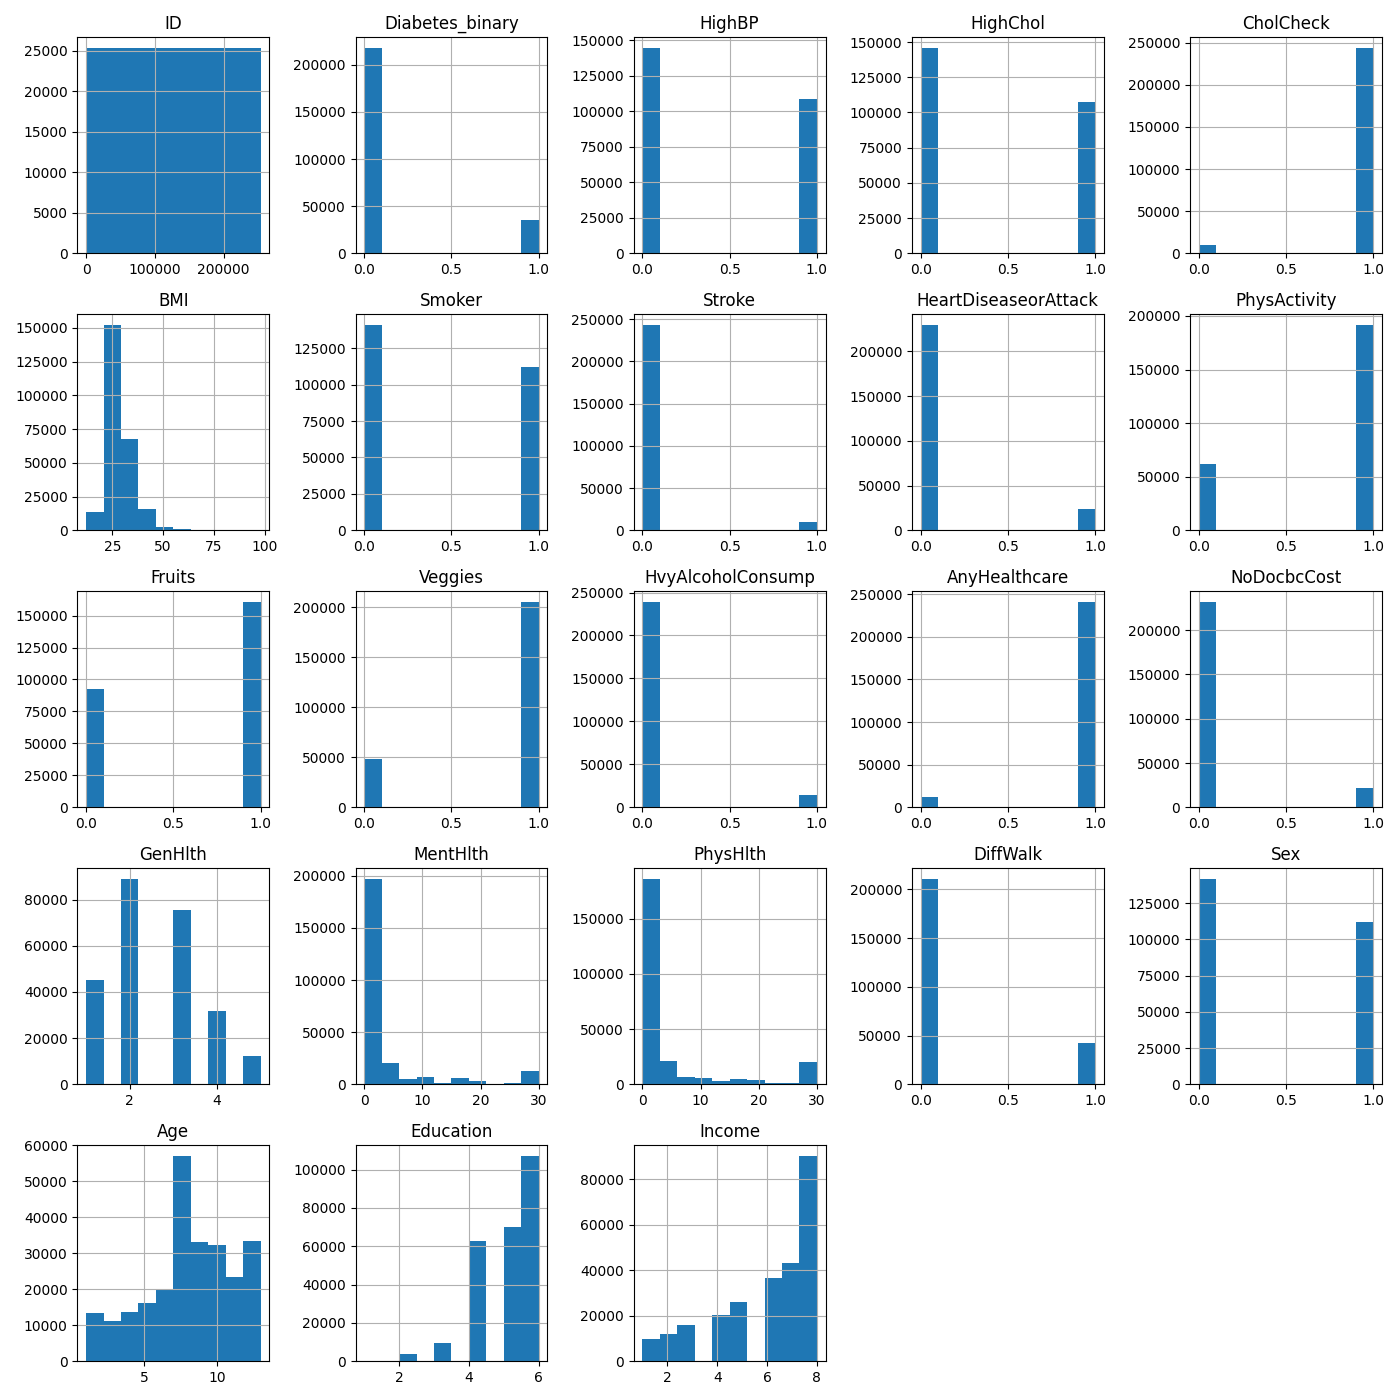
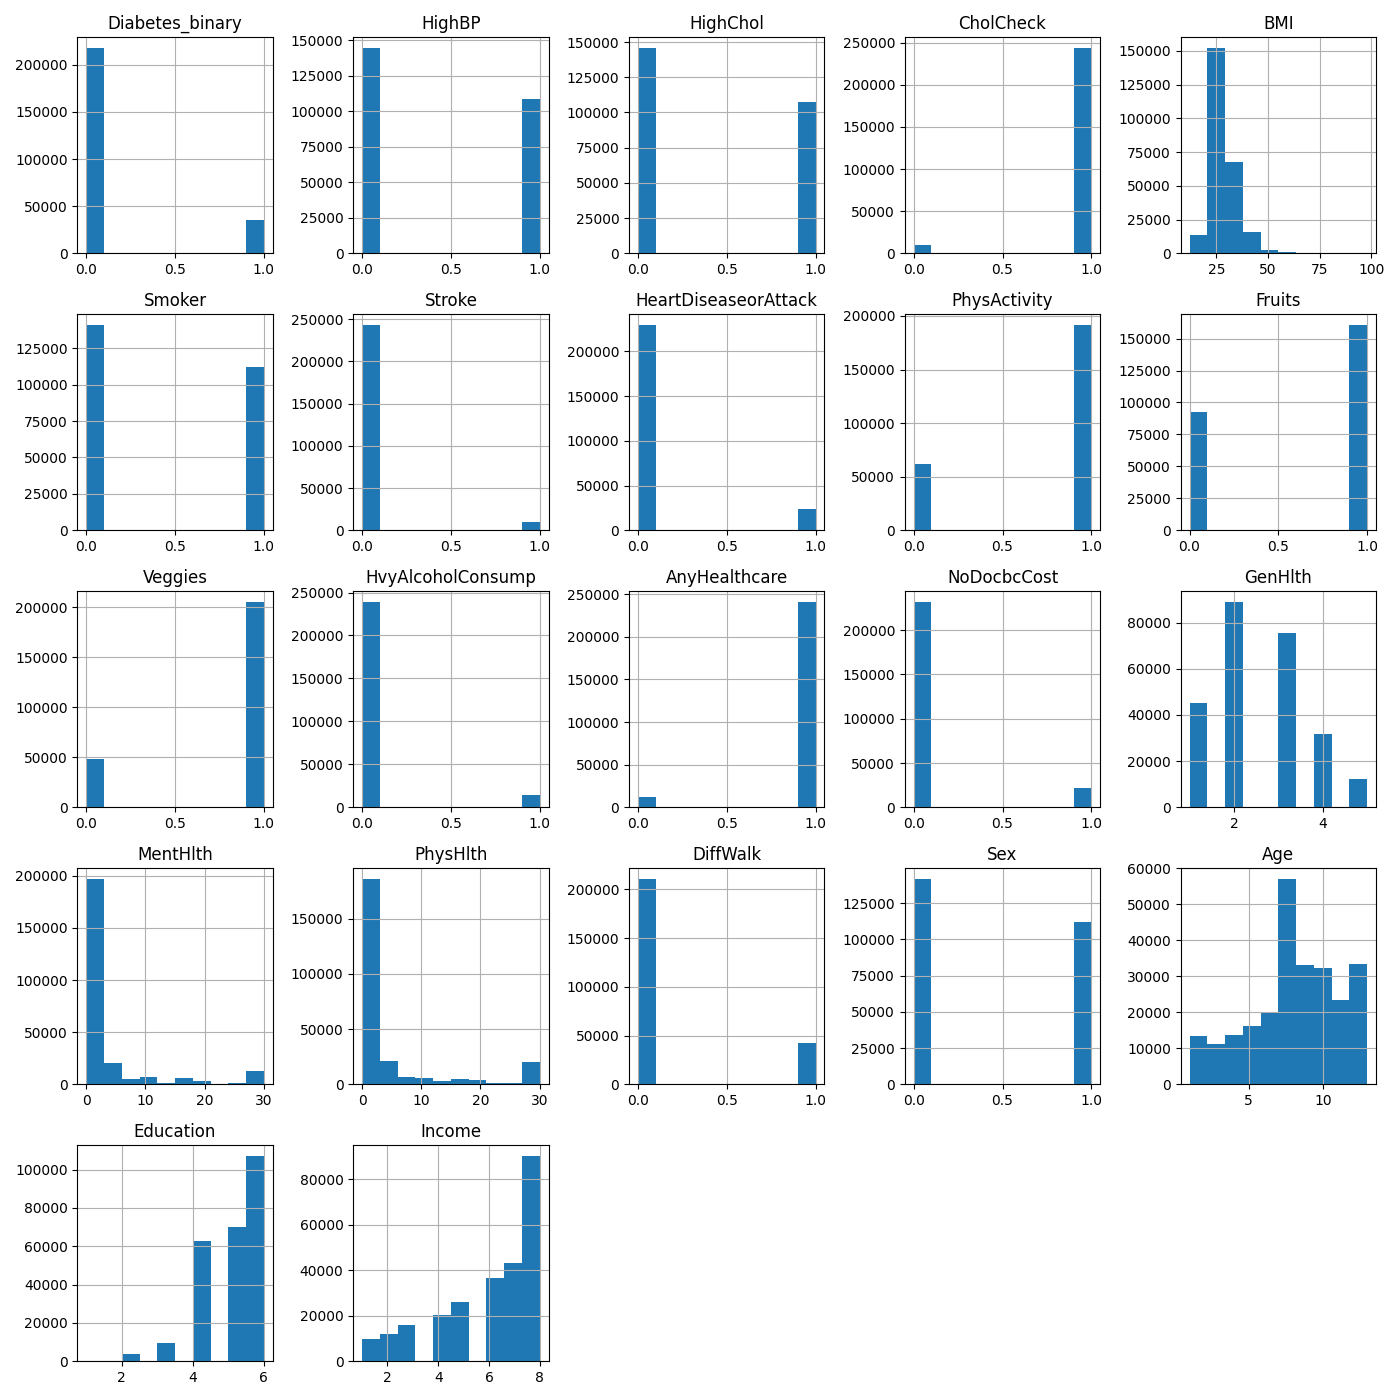
Implementation of Logistic Regression

diff --git a/Helpers.py b/Helpers.py
@@ -4,6 +4,9 @@ from matplotlib import pyplot as plt
 from sklearn.model_selection import train_test_split
 from sklearn.preprocessing import StandardScaler
 from statsmodels.stats.outliers_influence import variance_inflation_factor
+from sklearn.metrics import confusion_matrix, roc_curve, auc
+import numpy as np
+import seaborn as sns
 
 
 def plot_histogram(df, output_folder=None, filename="histogram.png"):
@@ -31,7 +34,49 @@ def calculate_variance_inflation_factor(df):
         variance_inflation_factor(df.values, i) for i in range(df.shape[1])
     ]
     vif["Feature"] = df.columns
+    print(vif)
     return vif
+
+
+def plot_variance_inflation_factor(
+    df, target, output_folder=None, filename="variance_inflation_factor.png"
+):
+    # Calculate the VIF for each feature
+    vif = pd.DataFrame()
+    vif["VIF Factor"] = [
+        variance_inflation_factor(df.values, i) for i in range(df.shape[1])
+    ]
+    vif["Feature"] = df.columns
+
+    # Sort the VIF values
+    vif_sorted = vif.sort_values(by="VIF Factor", ascending=False)
+
+    # Set up the matplotlib figure
+    plt.figure(figsize=(10, 6))
+    ax = vif_sorted.plot(
+        kind="bar", x="Feature", y="VIF Factor", legend=False, color="skyblue"
+    )
+    plt.grid(True, which="both", axis="y", linestyle="--")
+
+    # Annotate bars with VIF values
+    for idx, value in enumerate(vif_sorted["VIF Factor"]):
+        ax.text(idx, value + 0.02, f"{value:.2f}", ha="center", va="bottom")
+
+    # Set titles and labels
+    plt.title(
+        f"Variance Inflation Factor (VIF) for Features\n(Target: {target})", fontsize=14
+    )
+    plt.ylabel("VIF Factor", fontsize=12)
+    plt.xlabel("Features", fontsize=12)
+
+    plt.xticks(rotation=45)
+
+    # Save the plot if output_folder is specified
+    if output_folder:
+        plt.tight_layout()
+        plot_path = os.path.join(output_folder, filename)
+        plt.savefig(plot_path)
+    plt.close()
 
 
 # Plot all correlations.
@@ -105,5 +150,62 @@ def plot_actual_vs_predicted(y_test, y_hat, target_name, output_folder):
     plot_path = os.path.join(
         output_folder, f"Graph_Actual_vs_Predicted Value_Linear_Regression.png"
     )
+    plt.savefig(plot_path)
+    plt.close()
+
+
+def plot_correlation_matrix(X, output_folder="Results", title="Correlation Matrix"):
+    plt.figure(figsize=(20, 20))
+    heatmap = sns.heatmap(X.corr(), vmin=-1, vmax=1, annot=True, cmap="Blues")
+    heatmap.set_title("CDC Data Correlation heatmap", fontdict={"fontsize": 10}, pad=12)
+    plot_path = os.path.join(output_folder, title)
+    plt.savefig(plot_path)
+    plt.close()
+
+
+def plot_confusion_matrix(
+    y_true, y_hat, output_folder="Results", title="Confusion Matrix"
+):
+    cm = confusion_matrix(y_true, y_hat)
+    plt.figure(figsize=(6, 6))
+    plt.imshow(cm, interpolation="nearest", cmap=plt.cm.Blues)
+    plt.title(title)
+    plt.colorbar()
+    plt.xlabel("Predicted label")
+    plt.ylabel("True label")
+    tick_marks = np.arange(2)
+    plt.xticks(tick_marks, ["False", "True"])
+    plt.yticks(tick_marks, ["False", "True"])
+
+    thresh = cm.max() / 2.0
+    for i, j in np.ndindex(cm.shape):
+        plt.text(
+            j,
+            i,
+            format(cm[i, j], "d"),
+            horizontalalignment="center",
+            color="white" if cm[i, j] > thresh else "black",
+        )
+
+    plt.tight_layout()
+    plot_path = os.path.join(output_folder, f"{title}.png")
+    plt.savefig(plot_path)
+    plt.close()
+
+
+def plot_roc_curve(y_true, y_hat, output_folder="Results", title="ROC_Curve"):
+    fpr, tpr, _ = roc_curve(y_true, y_hat)
+    roc_auc = auc(fpr, tpr)
+
+    plt.figure(figsize=(8, 6))
+    plt.plot(fpr, tpr, color="blue", lw=2, label=f"ROC curve (area = {roc_auc:.2f})")
+    plt.plot([0, 1], [0, 1], color="gray", linestyle="--")
+    plt.xlim([0.0, 1.0])
+    plt.ylim([0.0, 1.05])
+    plt.xlabel("False Positive Rate")
+    plt.ylabel("True Positive Rate")
+    plt.title("Receiver Operating Characteristic")
+    plt.legend(loc="lower right")
+    plot_path = os.path.join(output_folder, f"{title}.png")
     plt.savefig(plot_path)
     plt.close()

diff --git a/DiabetesHealthIndicators/PrepareDataset.py b/DiabetesHealthIndicators/PrepareDataset.py
@@ -1,26 +1,52 @@
 import pandas as pd
-
+import numpy as np
+from LogisticRegression import *
 from Assignment1.Helpers import *
 
 # Not much data to be pre-processed here.
-df_diabetes = pd.read_csv("Data/DiabetesHealthIndicators.csv")
 
-x_train, x_test, y_train, y_test = split_data(df_diabetes, "Diabetes_binary")
-x_train_scaled, x_test_scaled = scale_data(x_train, x_test)
 
-plot_histogram(
-    df_diabetes,
-    "Results",
-    "Histogram_Diabetes_Health_Indicators.png",
-)
-compute_and_plot_correlation(
-    df_diabetes,
-    "Diabetes_binary",
-    "Results",
-    "Correlation_Diabetes_Health_Indicators.png",
-)
-get_correlation(df_diabetes, "Diabetes_binary")
-calculate_variance_inflation_factor(df_diabetes)
+def fetch_data():
+    return pd.read_csv("Data/DiabetesHealthIndicators.csv")
+
+
+def perform_logistic_regression(preprocessed_data):
+
+    preprocessed_data = preprocessed_data.dropna()
+    preprocessed_data = preprocessed_data.drop(columns=["ID"])
+
+    x_train, x_test, y_train, y_test = split_data(preprocessed_data, "Diabetes_binary")
+    x_train_scaled, x_test_scaled = scale_data(x_train, x_test)
+    lr = LogisticRegression(0.01, 10000, 1e-8, True)
+    lr.fit(x_train_scaled, y_train)
+    yh_bool = lr.predict_bool(x_test_scaled)
+    yh_real = lr.predict_real(x_test_scaled)
+    # Plot confusion matrix
+    plot_confusion_matrix(y_test, yh_bool)
+
+    # Plot ROC curve
+    plot_roc_curve(y_test, yh_real)
+
+
+def main():
+    df = fetch_data()
+    # plot_histogram(df,"Results", "Histogram_Diabetes_Health_Indicators.png")
+    # compute_and_plot_correlation(df, "Diabetes_binary", "Results", "Correlation_Diabetes_Health_Indicators.png")
+    # calculate_variance_inflation_factor(df)
+    preprocessed_data = df.dropna()
+    preprocessed_data = preprocessed_data.drop(columns=["ID"])
+    plot_histogram(
+        preprocessed_data, "Results", "Histogram_Diabetes_Health_Indicators.png"
+    )
+    plot_correlation_matrix(preprocessed_data, "Results", "CDC_Correlation_Matrix")
+
+    plot_variance_inflation_factor(preprocessed_data, "Diabetes_binary", "Results")
+
+    perform_logistic_regression(df)
+
+
+if __name__ == "__main__":
+    main()
 
 # Education vif = 29.72, correlation w/ target is low. Education and Income are correlated (0.44), could keep Income.
 # AnyHealthcare vif = 20.93, correlation w/ target very low (0.016).

diff --git a/DiabetesHealthIndicators/LogisticRegression.py b/DiabetesHealthIndicators/LogisticRegression.py
@@ -1,0 +1,50 @@
+import numpy as np
+
+
+def sigmoid(z):
+    logistic = 1.0 / (1 + np.exp(-z))
+    return logistic
+
+
+class LogisticRegression:
+    def __init__(self, learning_rate=0.01, max_iter=1000, epsilon=1e-8, add_bias=True):
+        self.weights = None
+        self.bias = None
+        self.learning_rate = learning_rate
+        self.max_iter = max_iter
+        self.epsilon = epsilon
+        self.add_bias = add_bias
+
+    def gradient(self, x, y):
+        n_samples, n_features = x.shape
+        yh = sigmoid(np.dot(x, self.weights))
+        grad = (
+            np.dot(x.T, yh - y) / n_samples
+        )  # divide by N because cost is mean over N points
+        return grad  # size n_features
+
+    def fit(self, x, y):
+        if self.add_bias:
+            x = np.c_[np.ones((x.shape[0], 1)), x]  # Adding columns of 1 to X
+        n_samples, n_features = x.shape
+        self.weights = np.zeros(n_features)
+        grad = np.inf
+        i = 0
+        while np.linalg.norm(grad) > self.epsilon and i < self.max_iter:
+            grad = self.gradient(x, y)
+            self.weights = self.weights - self.learning_rate * grad
+            i += 1
+
+    def predict_bool(self, x):
+        if self.add_bias:
+            x = np.c_[np.ones((x.shape[0], 1)), x]
+        linear_model = np.dot(x, self.weights)
+        yh = sigmoid(linear_model)
+        return (yh > 0.5).astype(int)
+
+    def predict_real(self, x):
+        if self.add_bias:
+            x = np.c_[np.ones((x.shape[0], 1)), x]
+        linear_model = np.dot(x, self.weights)
+        yh = sigmoid(linear_model)
+        return yh

diff --git a/DiabetesHealthIndicators/MiniBatchLogisticRegression.py b/DiabetesHealthIndicators/MiniBatchLogisticRegression.py
@@ -1,0 +1,14 @@
+import numpy as np
+
+
+def sigmoid(z):
+    logistic = 1.0 / (1 + np.exp(-z))
+    return logistic
+
+
+class MiniBatchLogisticRegression:
+    def __init__(self, learning_rate=0.01, max_iter=1000, epsilon=1e-8):
+        self.weights = None
+        self.learning_rate = learning_rate
+        self.max_iter = max_iter
+        self.epsilon = epsilon

diff --git a/InfraredThermographyTemperature/MiniBatchLinearRegression.py b/InfraredThermographyTemperature/MiniBatchLinearRegression.py
@@ -1,0 +1,9 @@
+class MiniBatchLinearRegression:
+
+    def __init__(self, theta, batch_size):
+        self.weights = None
+        self.theta = theta
+        self.batch_size = batch_size
+
+    def fit(self, X, y):
+        return
